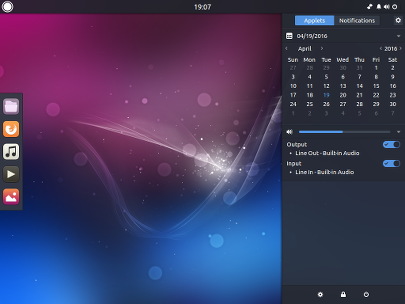
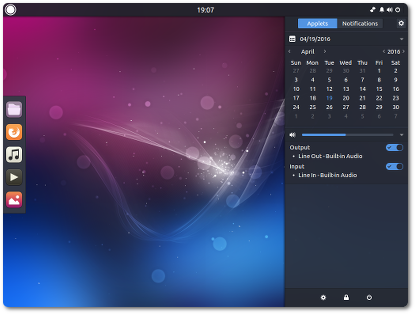
Improve images and shadows
- Improve shadow for slide header
- Add drop shadow and rounded edges for desktop screenshot
- Better render of background image for start and end slides

diff --git a/slideshows/budgie-remix/slides/link/base.css b/slideshows/budgie-remix/slides/link/base.css
@@ -123,7 +123,7 @@ strong {
 	height:68px;
 	z-index: 2;
 	background-color:#222;
-	box-shadow: 0 3px 6px rgba(0,0,0,0.16), 0 3px 6px rgba(0,0,0,0.23);
+	box-shadow: 0 1px 3px rgba(0,0,0,0.12), 0 1px 2px rgba(0,0,0,0.24);
 }
 
 .header > .slidetitle {

diff --git a/slideshows/budgie-remix/slides/01_welcome.html b/slideshows/budgie-remix/slides/01_welcome.html
@@ -11,6 +11,6 @@
         </div>
 	</div>
 
-    <img class="background" src="screenshots/welcome.jpg" />
+    <img class="background" src="screenshots/welcome.png" />
 	<img class="screenshot" src="icons/budgie-remix-logo.svg" />
 </div>

diff --git a/slideshows/budgie-remix/slides/08_gethelp.html b/slideshows/budgie-remix/slides/08_gethelp.html
@@ -12,5 +12,5 @@
         </div>
     </div>
 
-    <img class="background" src="screenshots/welcome.jpg" />
+    <img class="background" src="screenshots/welcome.png" />
 </div>
